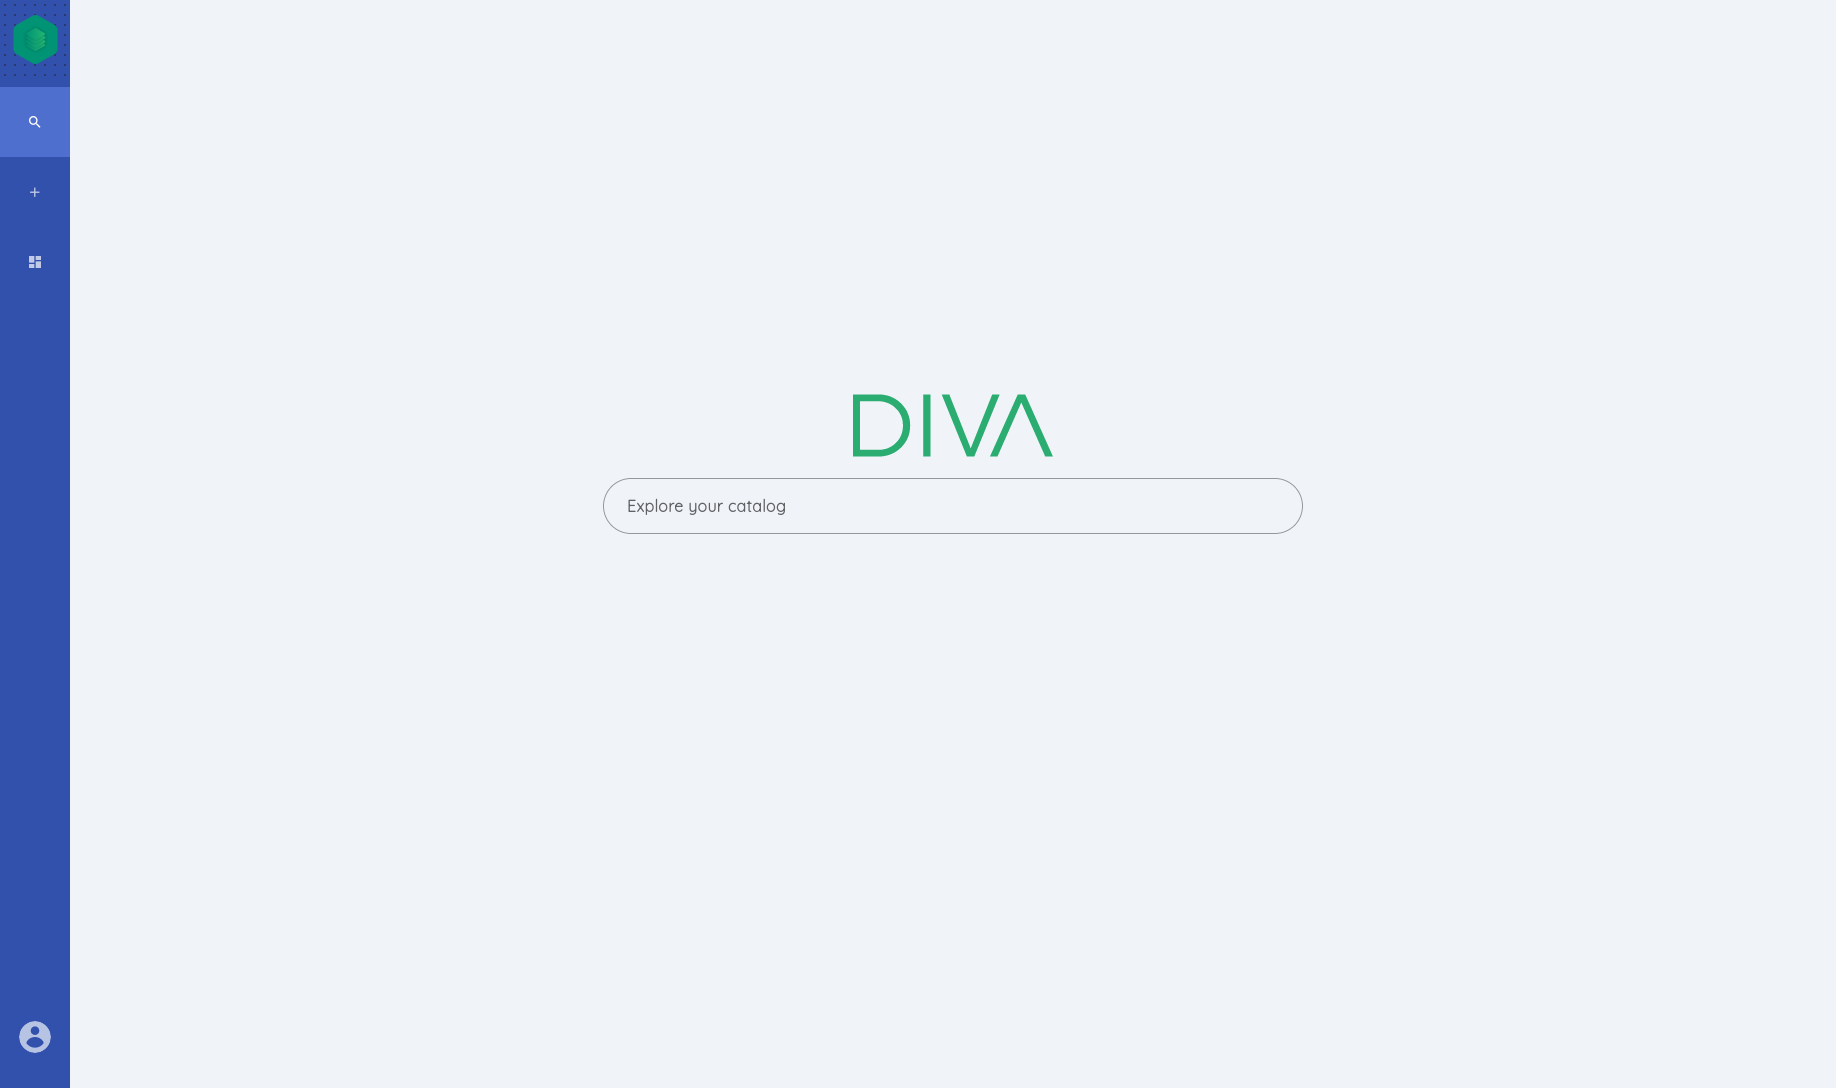
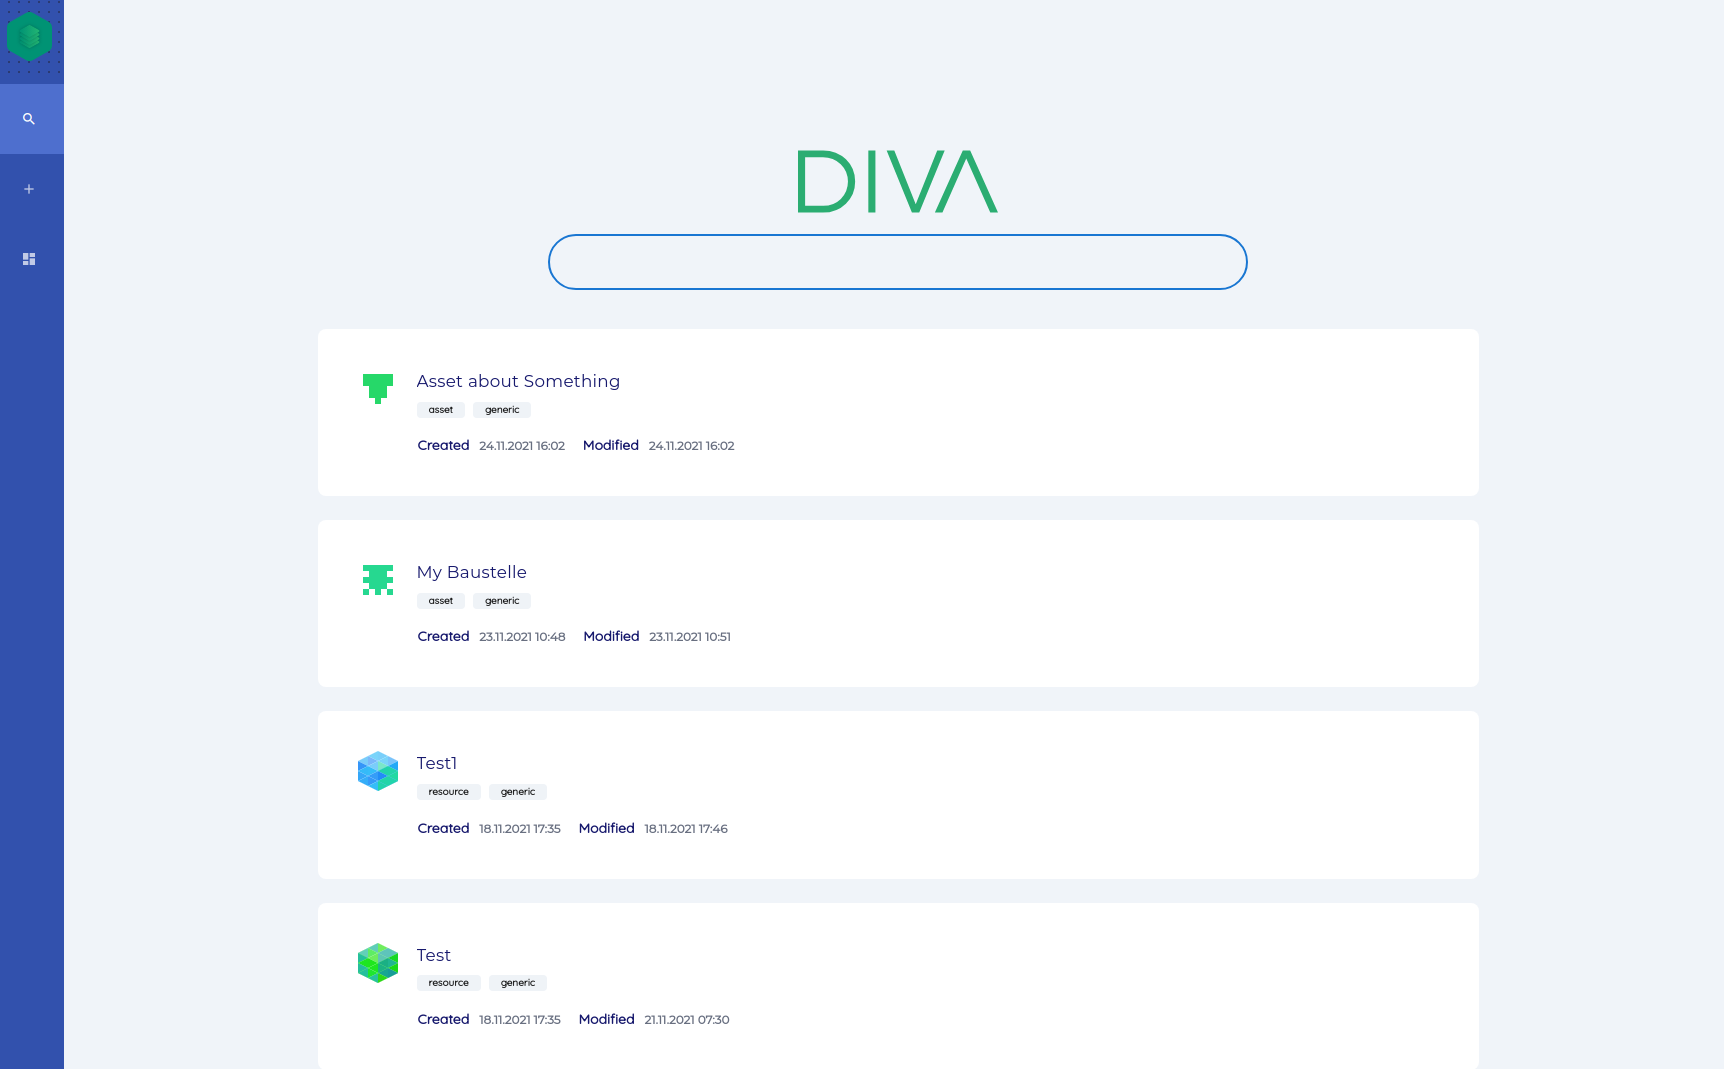
feat: updated search in general

diff --git a/docs/user-docs/search.md b/docs/user-docs/search.md
@@ -2,22 +2,35 @@
 
 On the search page you can search for all [Resources](../about/README.md#resource) and [Assets](../about/README.md#asset) in DIVA using free text search.
 Just enter your query in the search field, the search will be executed as you type.
+DIVA will already give a first set of results without you having to insert a search term.
+This should support you in "flowing" through the metadata.
 
 <div class="flex justify-center">
     <img class="rounded-lg" :src="$withBase('/assets/screenshots/search.png')" alt="DIVA login">
 </div>
 
-The search results are presented in cards with an overview of important meta information. When clicking on a card, the [details](./resource-details) page of a resource or asset opens in a new tab.
+The search results are presented in cards with an overview of important meta information.
+When clicking on a card, the [details](./resource-details) page of a resource or asset opens in a new tab.
 
-1. Hash icon
-2. Title of the Resource/Asset
-3. Type of the date Resource/Asset represents
-4. Keywords of the Resource/Asset
+Following information is previewed if available:
+
+1. Title
+2. Description
+3. Type of result (e.g. `resource`, `asset`)
+4. Metadata create and modified date
+5. Keywords
 
 <div class="flex justify-center">
     <img class="rounded-lg border-2 border-gray-100 border-solid" :src="$withBase('/assets/screenshots/search_result.png')" alt="DIVA Search Result">
 </div>
 
 ::: warning
-The current search page is very minimalistic. In the future updates we will enhance the search and enable more complex search scenarios.
+The current search page is very minimalistic.
+In the future updates we will enhance the search and enable more complex search scenarios.
+Like filtering resources by a specific file types.
+:::
+
+::: tip
+The colorful icon on the left is a placeholder generated by our system.
+In the future one will be able to upload specific icons for every resource or other entity (optional).
 :::
